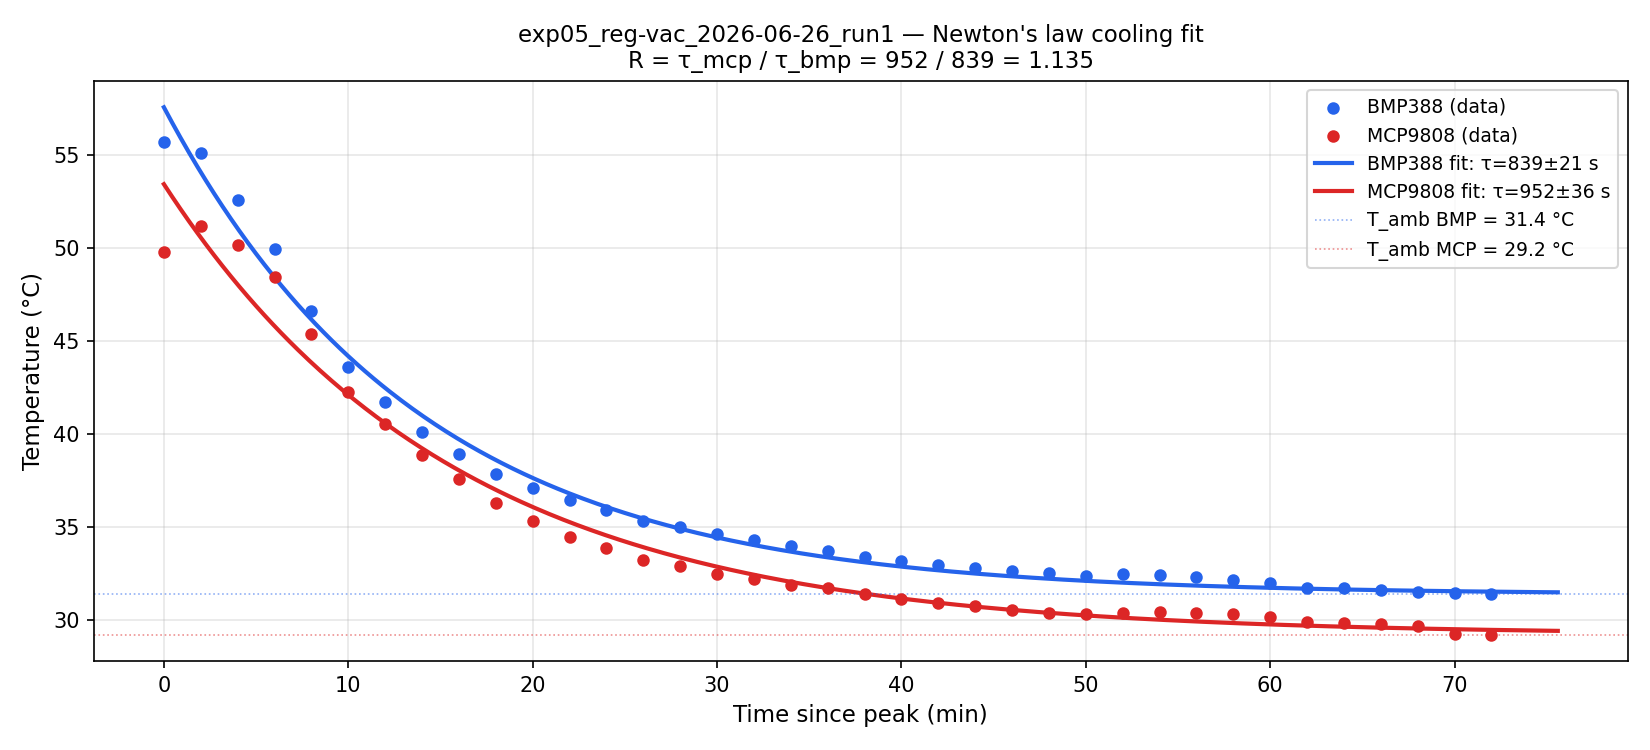
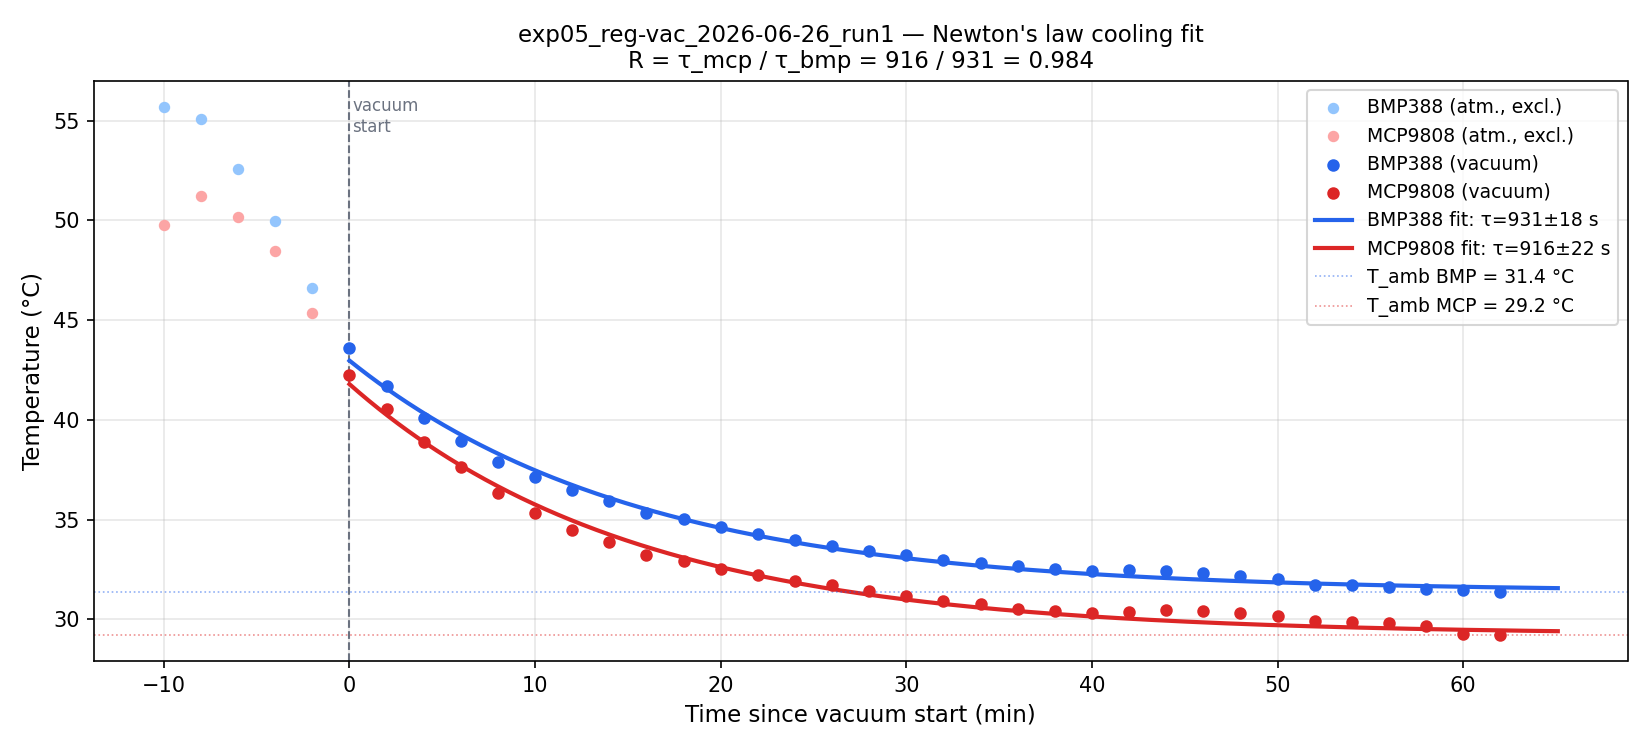
Add cooling division to analysis scripts; update processing results

diff --git a/analysis-scripts/cooling_analysis.py b/analysis-scripts/cooling_analysis.py
@@ -2,17 +2,21 @@
 Burst cooling analysis — Newton's law fit for any experiment run.
 
 Usage:
-    python cooling_analysis.py <log_file> <sleep_s>
+    python cooling_analysis.py <log_file> <sleep_s> [--fit-offset N]
 
 Arguments:
-    log_file   Path to raw .log file
-    sleep_s    SLEEP_TIME value used during data collection (seconds)
+    log_file       Path to raw .log file
+    sleep_s        SLEEP_TIME value used during data collection (seconds)
+    --fit-offset N Skip first N cooling bursts from the fit.
+                   Use when the early cooling phase was in a different medium
+                   (e.g. atmosphere before vacuum was applied). Default: 0.
 
 Output (written next to the log file in ../processed/):
     <log_stem>_burst-means.csv
     <log_stem>_fit-results.txt
 """
 
+import argparse
 import csv
 import os
 import sys
@@ -90,13 +94,21 @@ def fit_newton(t, T, T_amb, cycle_s):
 # ── Main ──────────────────────────────────────────────────────────────────────
 
 def main():
-    if len(sys.argv) < 3:
-        print("Usage: python cooling_analysis.py <log_file> <sleep_s>")
-        sys.exit(1)
+    parser = argparse.ArgumentParser(
+        description='Burst cooling analysis — Newton\'s law fit.'
+    )
+    parser.add_argument('log_file', help='Path to raw .log file')
+    parser.add_argument('sleep_s', type=int,
+                        help='SLEEP_TIME value used during data collection (seconds)')
+    parser.add_argument('--fit-offset', type=int, default=0, metavar='N',
+                        help='Skip first N cooling bursts from the fit '
+                             '(e.g. atmospheric equilibration before vacuum). Default: 0.')
+    args = parser.parse_args()
 
-    log_path = os.path.abspath(sys.argv[1])
-    sleep_s  = int(sys.argv[2])
-    cycle_s  = AWAKE_S + sleep_s
+    log_path   = os.path.abspath(args.log_file)
+    sleep_s    = args.sleep_s
+    fit_offset = args.fit_offset
+    cycle_s    = AWAKE_S + sleep_s
 
     log_stem = os.path.splitext(os.path.basename(log_path))[0]
     out_dir  = os.path.normpath(os.path.join(os.path.dirname(log_path), '..', 'processed'))
@@ -115,39 +127,49 @@ def main():
         print("No data found — aborting.")
         sys.exit(1)
 
-    all_means   = [burst_mean(b) for b in bursts]
-    T_bmp_all   = np.array([m[0] for m in all_means])
-    T_mcp_all   = np.array([m[1] for m in all_means])
+    all_means = [burst_mean(b) for b in bursts]
+    T_bmp_all = np.array([m[0] for m in all_means])
+    T_mcp_all = np.array([m[1] for m in all_means])
 
     # Auto-detect peak: cooling starts at the hottest burst
-    peak_idx     = int(np.argmax(T_bmp_all))
-    cool_means   = all_means[peak_idx:]
-    cool_bursts  = bursts[peak_idx:]
+    peak_idx    = int(np.argmax(T_bmp_all))
+    cool_means  = all_means[peak_idx:]
 
-    T_bmp = np.array([m[0] for m in cool_means])
-    T_mcp = np.array([m[1] for m in cool_means])
-    t_arr = np.array([k * cycle_s for k in range(len(cool_means))], dtype=float)
+    T_bmp_cool = np.array([m[0] for m in cool_means])
+    T_mcp_cool = np.array([m[1] for m in cool_means])
 
-    T_amb_bmp = T_bmp.min()
-    T_amb_mcp = T_mcp.min()
-    exc_bmp   = T_bmp - T_amb_bmp
-    exc_mcp   = T_mcp - T_amb_mcp
+    T_amb_bmp = T_bmp_cool.min()
+    T_amb_mcp = T_mcp_cool.min()
+
+    exc_bmp = T_bmp_cool - T_amb_bmp
+    exc_mcp = T_mcp_cool - T_amb_mcp
     n_meaningful = int(((exc_bmp > MIN_EXCESS_C) | (exc_mcp > MIN_EXCESS_C)).sum())
+
+    # Fitting window: skip first fit_offset cooling bursts (e.g. atmospheric phase)
+    fit_offset = min(fit_offset, len(cool_means) - 2)  # guard against over-skip
+    T_bmp_fit = T_bmp_cool[fit_offset:]
+    T_mcp_fit = T_mcp_cool[fit_offset:]
+    t_arr_fit = np.array([k * cycle_s for k in range(len(T_bmp_fit))], dtype=float)
 
     # ── Burst means CSV ───────────────────────────────────────────────────────
     with open(csv_path, 'w', newline='') as f:
         w = csv.writer(f)
         w.writerow(['burst', 't_s', 'T_bmp_C', 'T_mcp_C', 'phase', 'n_samples'])
         for k, (m, b) in enumerate(zip(all_means, bursts)):
-            phase = 'warming' if k < peak_idx else 'cooling'
+            if k < peak_idx:
+                phase = 'warming'
+            elif k < peak_idx + fit_offset:
+                phase = 'cooling-atm'   # cooling in atmosphere, excluded from fit
+            else:
+                phase = 'cooling'
             w.writerow([k, k * cycle_s, f'{m[0]:.4f}', f'{m[1]:.4f}', phase, len(b)])
     print(f"Saved {csv_path}")
 
     # ── Fit ───────────────────────────────────────────────────────────────────
-    fit_bmp, err_bmp = fit_newton(t_arr, T_bmp, T_amb_bmp, cycle_s)
-    fit_mcp, err_mcp = fit_newton(t_arr, T_mcp, T_amb_mcp, cycle_s)
+    fit_bmp, err_bmp = fit_newton(t_arr_fit, T_bmp_fit, T_amb_bmp, cycle_s)
+    fit_mcp, err_mcp = fit_newton(t_arr_fit, T_mcp_fit, T_amb_mcp, cycle_s)
 
-    bmp_cooled_out = (len(exc_bmp) > 1 and exc_bmp[1] <= MIN_EXCESS_C)
+    bmp_cooled_out = (len(T_bmp_fit) > 1 and (T_bmp_fit[1] - T_amb_bmp) <= MIN_EXCESS_C)
 
     tau_bmp = fit_bmp[1] if fit_bmp is not None and not bmp_cooled_out else None
     tau_mcp = fit_mcp[1] if fit_mcp is not None else None
@@ -169,12 +191,18 @@ def main():
     if peak_idx > 0:
         lines.append(f"Warming bursts : 0 to {peak_idx - 1}")
     lines.append(f"Cooling bursts : {peak_idx} to {len(bursts) - 1}  ({len(cool_means)} total)")
+    if fit_offset > 0:
+        fit_start = peak_idx + fit_offset
+        lines.append(f"Fit offset     : {fit_offset} bursts  "
+                     f"(atmospheric phase, bursts {peak_idx}–{fit_start - 1} excluded from fit)")
+        lines.append(f"Fit window     : bursts {fit_start} to {len(bursts) - 1}  "
+                     f"({len(T_bmp_fit)} bursts)")
     lines.append(f"Meaningful (excess > {MIN_EXCESS_C} C) : {n_meaningful}")
     lines.append("")
 
     lines.append(f"T_amb_bmp = {T_amb_bmp:.3f} C  (min observed)")
     lines.append(f"T_amb_mcp = {T_amb_mcp:.3f} C  (min observed)")
-    if T_bmp[-1] - T_amb_bmp > 1.0:
+    if T_bmp_cool[-1] - T_amb_bmp > 1.0:
         lines.append("NOTE: cube did not reach ambient — T_amb may be above true ambient.")
         lines.append("      Tau values are lower bounds.")
     lines.append("")
@@ -196,7 +224,7 @@ def main():
         R = tau_mcp / tau_bmp
         lines.append(f"R = tau_mcp / tau_bmp = {tau_mcp:.0f} / {tau_bmp:.0f} = {R:.3f}")
     elif tau_mcp is not None and bmp_cooled_out:
-        excess_b0 = exc_bmp[0]
+        excess_b0 = T_bmp_fit[0] - T_amb_bmp
         if excess_b0 > MIN_EXCESS_C:
             tau_bmp_upper = cycle_s / np.log(excess_b0 / MIN_EXCESS_C)
             lines.append(f"tau_mcp = {tau_mcp:.0f} s")
@@ -206,10 +234,15 @@ def main():
         lines.append("R cannot be computed.")
 
     lines.append("")
-    lines.append(f"{'burst':>6}  {'t(s)':>6}  {'T_bmp':>8}  {'T_mcp':>8}  {'phase':>8}  {'n':>5}")
+    lines.append(f"{'burst':>6}  {'t(s)':>6}  {'T_bmp':>8}  {'T_mcp':>8}  {'phase':>12}  {'n':>5}")
     for k, (m, b) in enumerate(zip(all_means, bursts)):
-        phase = 'warming' if k < peak_idx else 'cooling'
-        lines.append(f"{k:>6}  {k*cycle_s:>6}  {m[0]:>8.3f}  {m[1]:>8.3f}  {phase:>8}  {len(b):>5}")
+        if k < peak_idx:
+            phase = 'warming'
+        elif k < peak_idx + fit_offset:
+            phase = 'cooling-atm'
+        else:
+            phase = 'cooling'
+        lines.append(f"{k:>6}  {k*cycle_s:>6}  {m[0]:>8.3f}  {m[1]:>8.3f}  {phase:>12}  {len(b):>5}")
 
     with open(txt_path, 'w', encoding='utf-8') as f:
         f.write('\n'.join(lines) + '\n')

diff --git a/analysis-scripts/plot_run.py b/analysis-scripts/plot_run.py
@@ -108,22 +108,39 @@ def plot_full_series(bursts, t, T_bmp, T_mcp, phases, fit, stem, out_dir):
 
 
 def plot_cooling_fit(bursts, t, T_bmp, T_mcp, phases, fit, stem, out_dir):
-    cool_mask = np.array([p == 'cooling' for p in phases])
-    t_cool  = t[cool_mask]
-    b_cool  = T_bmp[cool_mask]
-    m_cool  = T_mcp[cool_mask]
-    t_rel   = t_cool - t_cool[0]   # seconds since peak
+    atm_mask = np.array([p == 'cooling-atm' for p in phases])
+    vac_mask = np.array([p == 'cooling'     for p in phases])
+    has_atm  = atm_mask.any()
 
-    # fit curves
-    t_fine = np.linspace(0, t_rel[-1] * 1.05, 500)
+    # fit origin: first vacuum burst (or first cooling burst if no atm phase)
+    fit_mask = vac_mask if has_atm else vac_mask
+    t0       = t[fit_mask][0]
+
+    # relative time: 0 at fit start
+    t_vac = t[vac_mask] - t0
+    b_vac = T_bmp[vac_mask]
+    m_vac = T_mcp[vac_mask]
+
+    # fit curves (t=0 is fit start, A is the amplitude at that moment)
+    t_fine    = np.linspace(0, t_vac[-1] * 1.05, 500)
     curve_bmp = fit['T_amb_bmp'] + fit['A_bmp'] * np.exp(-t_fine / fit['tau_bmp'])
     curve_mcp = fit['T_amb_mcp'] + fit['A_mcp'] * np.exp(-t_fine / fit['tau_mcp'])
 
     fig, ax = plt.subplots(figsize=(11, 5))
 
-    # data points
-    ax.scatter(t_rel/60, b_cool, color=BLUE, s=25, zorder=5, label='BMP388 (data)')
-    ax.scatter(t_rel/60, m_cool, color=RED,  s=25, zorder=5, label='MCP9808 (data)')
+    if has_atm:
+        t_atm = t[atm_mask] - t0    # negative — before fit start
+        ax.scatter(t_atm/60, T_bmp[atm_mask], color=LBLUE, s=20, zorder=4,
+                   label='BMP388 (atm., excl.)')
+        ax.scatter(t_atm/60, T_mcp[atm_mask], color=LRED,  s=20, zorder=4,
+                   label='MCP9808 (atm., excl.)')
+        ax.axvline(0, color=GRAY, lw=1, ls='--')
+        ax.text(0.15, ax.get_ylim()[1] if ax.get_ylim()[1] != 1 else T_bmp.max(),
+                'vacuum\nstart', fontsize=8, color=GRAY, va='top')
+
+    # vacuum data points
+    ax.scatter(t_vac/60, b_vac, color=BLUE, s=25, zorder=5, label='BMP388 (vacuum)')
+    ax.scatter(t_vac/60, m_vac, color=RED,  s=25, zorder=5, label='MCP9808 (vacuum)')
 
     # fit curves
     ax.plot(t_fine/60, curve_bmp, color=BLUE, lw=2,
@@ -137,7 +154,8 @@ def plot_cooling_fit(bursts, t, T_bmp, T_mcp, phases, fit, stem, out_dir):
     ax.axhline(fit['T_amb_mcp'], color=RED,  lw=0.8, ls=':', alpha=0.5,
                label=f'T_amb MCP = {fit["T_amb_mcp"]:.1f} °C')
 
-    ax.set_xlabel('Time since peak (min)', fontsize=11)
+    xlabel = 'Time since vacuum start (min)' if has_atm else 'Time since peak (min)'
+    ax.set_xlabel(xlabel, fontsize=11)
     ax.set_ylabel('Temperature (°C)', fontsize=11)
     ax.set_title(f'{stem} — Newton\'s law cooling fit\n'
                  f'R = τ_mcp / τ_bmp = {fit["tau_mcp"]:.0f} / {fit["tau_bmp"]:.0f} = {fit["R"]:.3f}',